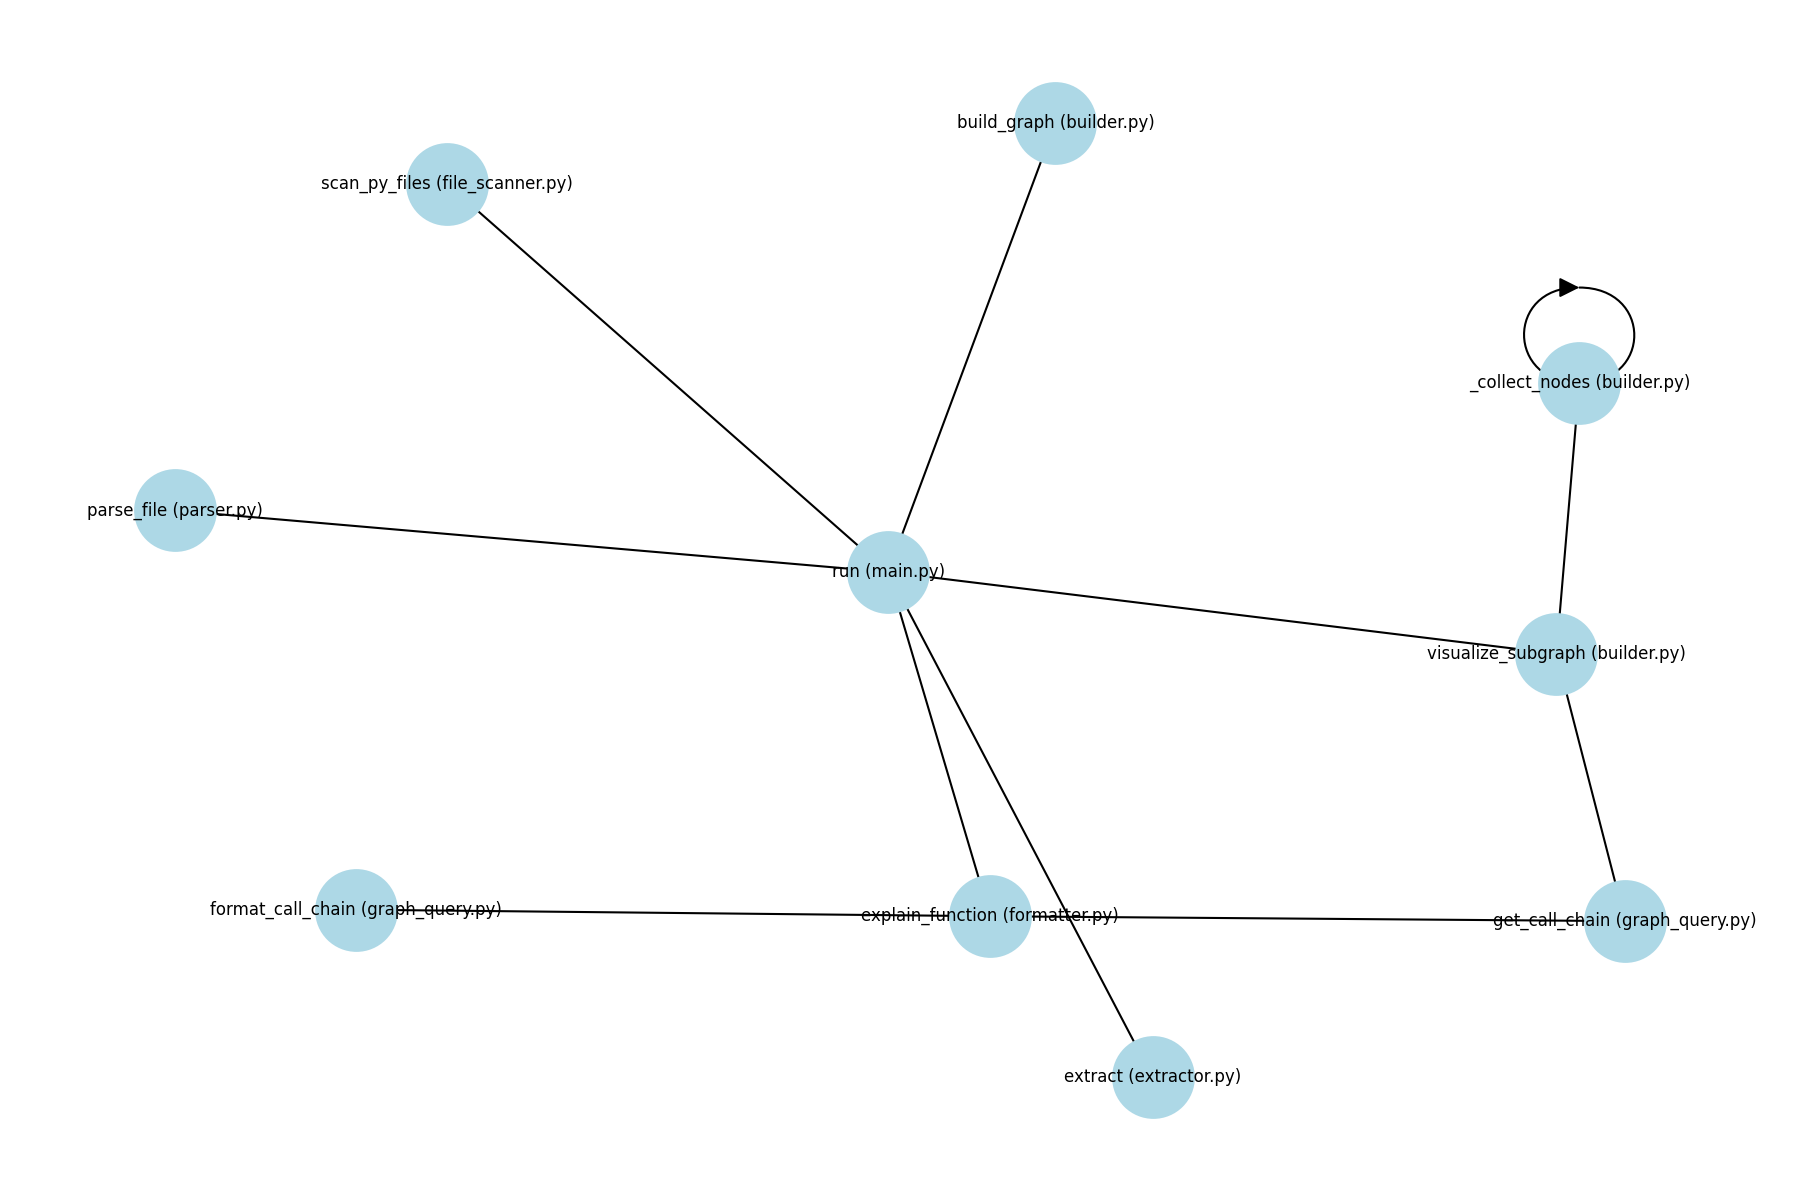
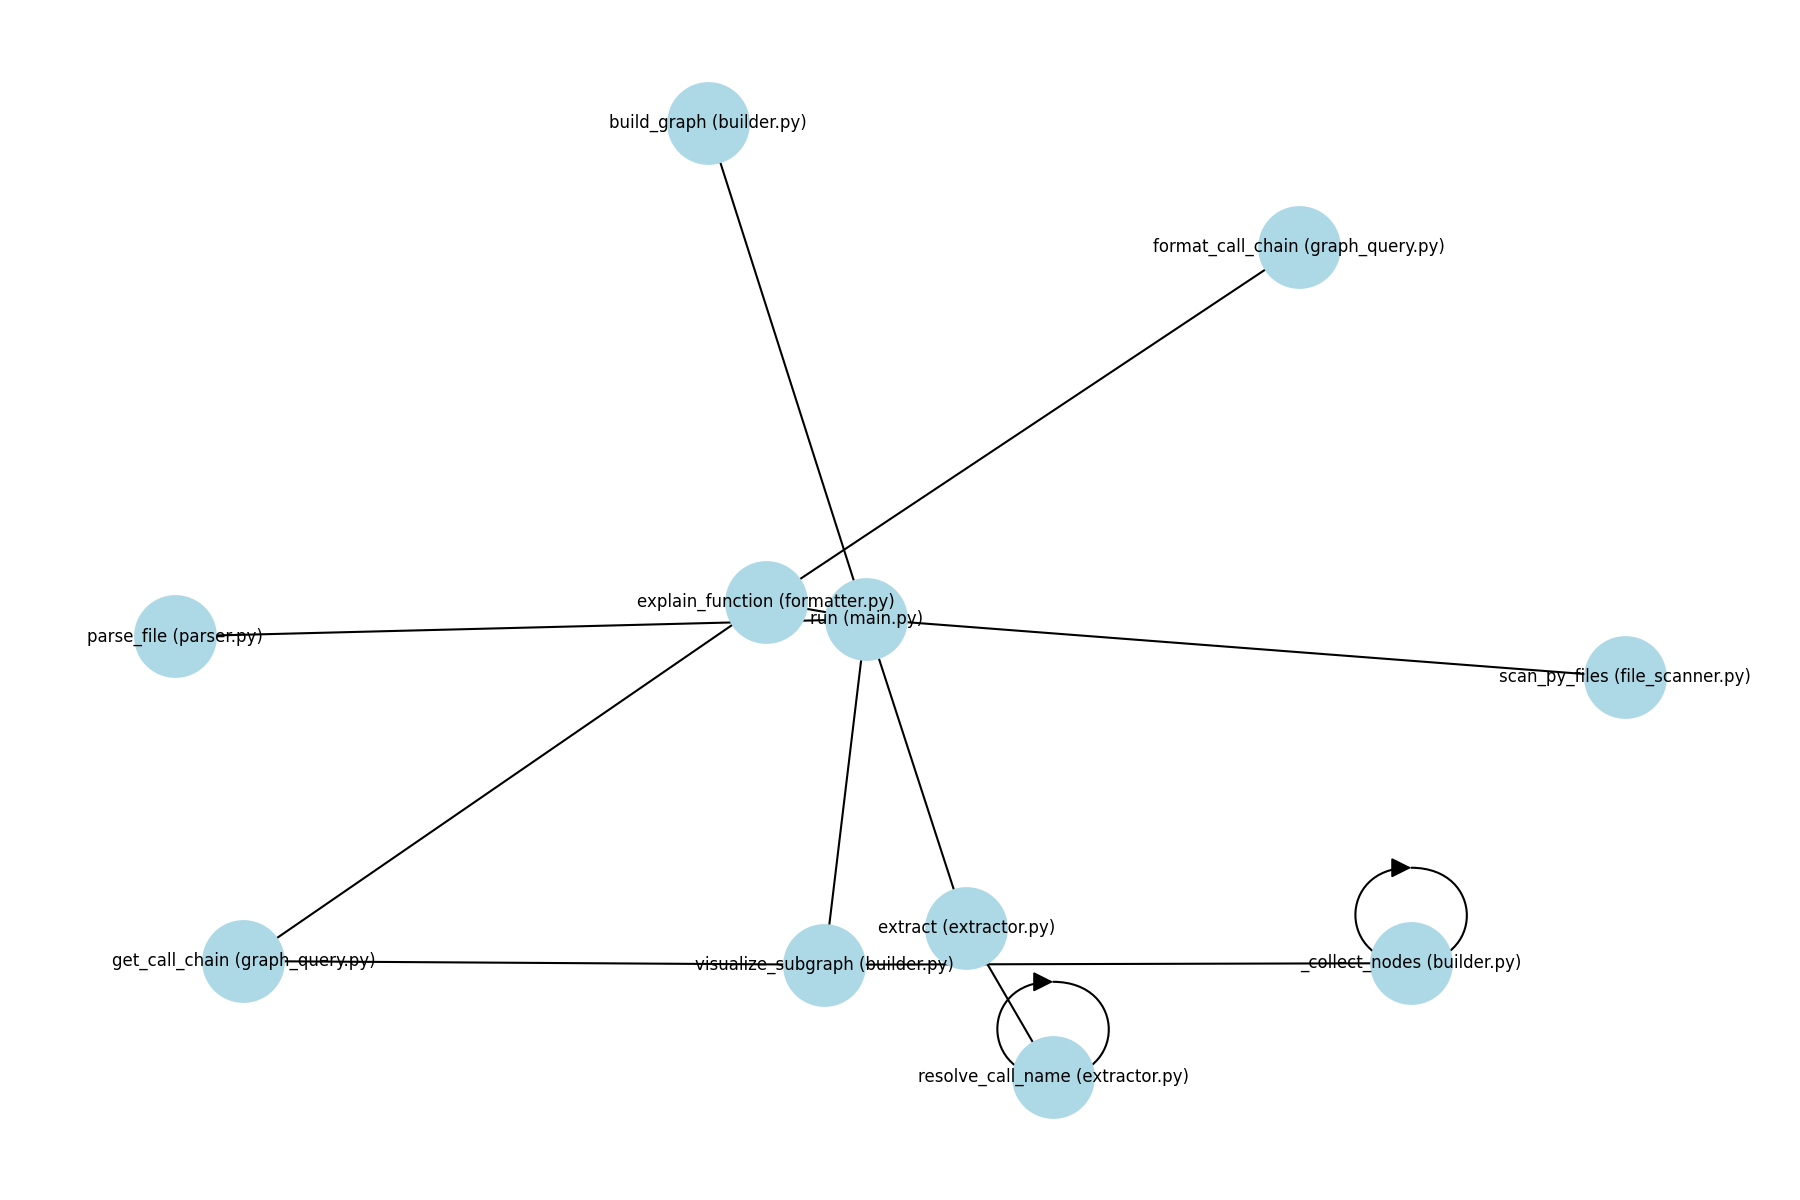
feat: support attribute/dotted call extraction

diff --git a/tests/unit/test_extractor.py b/tests/unit/test_extractor.py
@@ -1,11 +1,36 @@
 import ast
-from extraction.extractor import extract
+import pytest
+from extraction.extractor import extract, resolve_call_name
 from extraction.models import FileModule, Function
 
 
 def _parse(src: str) -> ast.AST:
     return ast.parse(src)
 
+
+# ---------------------------------------------------------------------------
+# resolve_call_name
+# ---------------------------------------------------------------------------
+
+def test_resolve_call_name_simple():
+    node = ast.parse("foo()").body[0].value
+    assert resolve_call_name(node.func) == "foo"
+
+
+def test_resolve_call_name_attribute():
+    node = ast.parse("os.path.join()").body[0].value
+    assert resolve_call_name(node.func) == "os.path.join"
+
+
+def test_resolve_call_name_unknown():
+    # dynamic call: func_list[0]() — cannot resolve
+    node = ast.parse("func_list[0]()").body[0].value
+    assert resolve_call_name(node.func) is None
+
+
+# ---------------------------------------------------------------------------
+# extract
+# ---------------------------------------------------------------------------
 
 def test_extract_returns_file_module():
     tree = _parse("def foo(): pass")
@@ -34,10 +59,17 @@ def test_extract_calls():
     assert result.functions[0].calls == ["bar", "baz"]
 
 
-def test_extract_ignores_attribute_calls():
+def test_extract_attribute_calls():
+    # attribute calls are now captured as dotted strings
     tree = _parse("def foo():\n    obj.method()")
     result = extract(tree, "mod.py")
-    assert result.functions[0].calls == []
+    assert result.functions[0].calls == ["obj.method"]
+
+
+def test_extract_mixed_calls():
+    src = "def foo():\n    bar()\n    os.path.join('a', 'b')"
+    result = extract(ast.parse(src), "mod.py")
+    assert result.functions[0].calls == ["bar", "os.path.join"]
 
 
 def test_extract_no_functions():

diff --git a/tests/unit/test_builder.py b/tests/unit/test_builder.py
@@ -34,6 +34,13 @@ def test_no_edge_for_unknown_call():
     assert len(g.edges) == 0
 
 
+def test_edge_created_for_dotted_call():
+    # "user.save" resolves via last segment "save" → a.py::save
+    mod = _mod("a.py", [("c", ["user.save"]), ("save", [])])
+    g = build_graph([mod])
+    assert g.has_edge("a.py::c", "a.py::save")
+
+
 def test_cross_module_edge():
     mod_a = _mod("a.py", [("foo", ["bar"])])
     mod_b = _mod("b.py", [("bar", [])])
@@ -140,3 +147,23 @@ def test_visualize_subgraph_with_cycle_does_not_raise(
     g = build_graph([_mod("a.py", [("alpha", ["beta"]), ("beta", ["alpha"])])])
     visualize_subgraph(g, "a.py::alpha", depth=2)
     mock_plt.savefig.assert_called_once()
+
+
+def test_visualize_subgraph_short_name_resolves():
+    """Short name like 'foo' should resolve to the full node ID."""
+    g = build_graph([_mod("a.py", [("foo", [])])])
+    # Should not raise — short name gets resolved internally
+    with patch("graph.builder.plt"), \
+         patch("graph.builder.nx.spring_layout", return_value={}), \
+         patch("graph.builder.nx.draw_networkx_nodes"), \
+         patch("graph.builder.nx.draw_networkx_edges"), \
+         patch("graph.builder.nx.draw_networkx_labels"):
+        visualize_subgraph(g, "foo", depth=1)
+
+
+def test_visualize_subgraph_unknown_node_returns_early():
+    """Unknown node should return early without drawing."""
+    g = build_graph([_mod("a.py", [("foo", [])])])
+    with patch("graph.builder.plt") as mock_plt:
+        visualize_subgraph(g, "nonexistent", depth=1)
+        mock_plt.savefig.assert_not_called()

diff --git a/extraction/extractor.py b/extraction/extractor.py
@@ -3,14 +3,27 @@ import ast
 from extraction.models import FileModule, Function
 
 
+def resolve_call_name(node: ast.AST) -> str | None:
+    # Simple call: foo()
+    if isinstance(node, ast.Name):
+        return node.id
+    # Attribute call: obj.method() or os.path.join()
+    if isinstance(node, ast.Attribute):
+        base = resolve_call_name(node.value)
+        return f"{base}.{node.attr}" if base else node.attr
+    # Dynamic call (e.g. func_list[0]()) — cannot resolve
+    return None
+
+
 def extract(tree: ast.AST, file_path: str) -> FileModule:
     functions = []
     for node in ast.iter_child_nodes(tree):
         if isinstance(node, ast.FunctionDef):
-            calls = [
-                n.func.id
-                for n in ast.walk(node)
-                if isinstance(n, ast.Call) and isinstance(n.func, ast.Name)
-            ]
+            calls = []
+            for n in ast.walk(node):
+                if isinstance(n, ast.Call):
+                    name = resolve_call_name(n.func)
+                    if name is not None:
+                        calls.append(name)
             functions.append(Function(name=node.name, file=file_path, calls=calls))
     return FileModule(name=file_path, functions=functions)

diff --git a/graph/builder.py b/graph/builder.py
@@ -19,7 +19,10 @@ def build_graph(modules: list[FileModule]) -> nx.DiGraph:
 
     for node_id, fn in all_functions.items():
         for call in fn.calls:
-            targets = [nid for nid in all_functions if nid.endswith(f"::{call}")]
+            # Use last segment so dotted calls like "os.path.join" or
+            # "user.save" can still match a known function named "join" / "save"
+            last = call.split(".")[-1]
+            targets = [nid for nid in all_functions if nid.endswith(f"::{last}")]
             for target in targets:
                 graph.add_edge(node_id, target)
 

diff --git a/data/sample_repo/test_attr.py b/data/sample_repo/test_attr.py
@@ -1,0 +1,15 @@
+import os
+
+def a():
+    b()
+    os.path.join("a", "b")
+
+def b():
+    pass
+
+class User:
+    def save(self):
+        pass
+
+def c(user):
+    user.save()

diff --git a/project_analysis.md b/project_analysis.md
@@ -1,0 +1,209 @@
+# PA — Code Intelligence System: Phân tích toàn bộ Project
+
+## Tổng quan
+
+**PA (Project Assistant)** là một hệ thống phân tích mã nguồn Python tĩnh (static analysis). Nó quét một codebase, trích xuất các hàm và mối quan hệ gọi nhau giữa chúng, sau đó xây dựng một "bản đồ" (đồ thị có hướng) để trực quan hóa cấu trúc code.
+
+Hiện tại đang ở **Phase 1 — Foundation**: chỉ dùng Python thuần + thư viện `ast` (có sẵn) và `networkx` (đồ thị), **không dùng AI/LLM** để phân tích.
+
+---
+
+## Kiến trúc tổng thể
+
+```mermaid
+flowchart LR
+    A["📂 Source Code"] --> B["ingestion"]
+    B --> C["parsing"]
+    C --> D["extraction"]
+    D --> E["graph"]
+    E --> F["query"]
+    F --> G["explain"]
+    E --> H["graph.png 🖼"]
+```
+
+Luồng dữ liệu đi **từ trái sang phải** qua 5 module chính, mỗi module chịu trách nhiệm một bước duy nhất.
+
+---
+
+## Chi tiết từng Module
+
+### 1. `ingestion/` — Quét file
+
+| File | Hàm | Nhiệm vụ |
+|------|------|-----------|
+| [file_scanner.py](file:///c:/Users/Admin/OneDrive/Tài%20liệu/PA/ingestion/file_scanner.py) | `scan_py_files(root)` | Tìm tất cả file `.py` trong thư mục (đệ quy), bỏ qua `venv`, `__pycache__`, `.git`, `tests` |
+
+**Input:** Đường dẫn thư mục hoặc file đơn lẻ
+**Output:** Danh sách đường dẫn các file `.py`
+
+```python
+# Ví dụ
+scan_py_files(".")
+# → ["app/main.py", "ingestion/file_scanner.py", "parsing/parser.py", ...]
+```
+
+---
+
+### 2. `parsing/` — Đọc cú pháp
+
+| File | Hàm | Nhiệm vụ |
+|------|------|-----------|
+| [parser.py](file:///c:/Users/Admin/OneDrive/Tài%20liệu/PA/parsing/parser.py) | `parse_file(path)` | Đọc file Python và chuyển thành cây cú pháp trừu tượng (AST) |
+
+**Input:** Đường dẫn 1 file `.py`
+**Output:** `ast.AST` — cây cú pháp mà Python tự phân tích
+
+> [!NOTE]
+> Module `ast` là thư viện có sẵn của Python. Nó đọc source code và biến thành một cấu trúc dữ liệu dạng cây, giúp chương trình "hiểu" code mà không cần chạy code đó.
+
+---
+
+### 3. `extraction/` — Trích xuất thông tin
+
+| File | Hàm/Class | Nhiệm vụ |
+|------|-----------|-----------|
+| [models.py](file:///c:/Users/Admin/OneDrive/Tài%20liệu/PA/extraction/models.py) | `Function`, `FileModule` | Định nghĩa cấu trúc dữ liệu |
+| [extractor.py](file:///c:/Users/Admin/OneDrive/Tài%20liệu/PA/extraction/extractor.py) | `extract(tree, file_path)` | Duyệt AST, tìm các hàm và hàm nào gọi hàm nào |
+
+**Input:** Cây AST + đường dẫn file
+**Output:** `FileModule` chứa danh sách các `Function`
+
+```python
+# Cấu trúc dữ liệu
+Function(name="run", file="app/main.py", calls=["scan_py_files", "build_graph", ...])
+FileModule(name="app/main.py", functions=[Function(...), ...])
+```
+
+> [!IMPORTANT]
+> Hiện tại extractor chỉ tìm được các lời gọi hàm dạng đơn giản `func_name()`. Nó **chưa xử lý** được:
+> - Gọi qua object: `obj.method()`
+> - Gọi qua module: `os.path.join()`
+> - Gọi qua biến: `callback()`
+
+---
+
+### 4. `graph/` — Xây dựng đồ thị
+
+| File | Hàm | Nhiệm vụ |
+|------|------|-----------|
+| [builder.py](file:///c:/Users/Admin/OneDrive/Tài%20liệu/PA/graph/builder.py) | `build_graph(modules)` | Tạo đồ thị có hướng từ danh sách `FileModule` |
+| | `visualize_subgraph(graph, func_name, depth)` | Vẽ sơ đồ hình ảnh (PNG) cho một hàm cụ thể |
+| | `_collect_nodes(chain)` | Thu thập tất cả node từ kết quả `get_call_chain` (hàm đệ quy) |
+
+**Cách hoạt động của `build_graph`:**
+
+```
+Bước 1: Tạo node cho mỗi hàm, format: "file_path::func_name"
+        Ví dụ: "app/main.py::run", "ingestion/file_scanner.py::scan_py_files"
+
+Bước 2: Tạo cạnh (edge) khi hàm A gọi hàm B
+        Ví dụ: "app/main.py::run" ──→ "ingestion/file_scanner.py::scan_py_files"
+```
+
+**Kết quả `graph.png` hiện tại:**
+
+![Đồ thị call graph hiện tại của project](C:\Users\Admin\.gemini\antigravity\brain\a6edd5e7-3f53-45b5-895c-854039bff380\graph.png)
+
+---
+
+### 5. `query/` — Truy vấn đồ thị
+
+| File | Hàm | Nhiệm vụ |
+|------|------|-----------|
+| [graph_query.py](file:///c:/Users/Admin/OneDrive/Tài%20liệu/PA/query/graph_query.py) | `get_function_calls(graph, func)` | Liệt kê các hàm mà `func` gọi trực tiếp |
+| | `get_callers(graph, func)` | Liệt kê các hàm gọi đến `func` ("ai gọi tôi?") |
+| | `get_call_chain(graph, func, depth)` | Xây dựng cây gọi đệ quy với phát hiện vòng lặp (cycle) |
+| | `format_call_chain(chain)` | Render cây gọi thành sơ đồ cây text đẹp |
+
+**Ví dụ output của `format_call_chain`:**
+```
+run (main.py)
+├── scan_py_files (file_scanner.py)
+├── build_graph (builder.py)
+├── visualize_subgraph (builder.py)
+│   ├── get_call_chain (graph_query.py)
+│   └── _collect_nodes (builder.py)
+│       └── _collect_nodes (builder.py)  [cycle]   ← đệ quy tự gọi chính nó
+├── extract (extractor.py)
+├── explain_function (formatter.py)
+│   ├── get_call_chain (graph_query.py)
+│   └── format_call_chain (graph_query.py)
+└── parse_file (parser.py)
+```
+
+> [!TIP]
+> **Cơ chế phát hiện Cycle:** Hệ thống dùng `frozenset` để theo dõi các node trên đường đi hiện tại. Nếu gặp lại node đã có trên đường đi → đánh dấu `[cycle]` và dừng nhánh đó. Node xuất hiện ở nhánh khác thì **không** bị coi là cycle.
+
+---
+
+### 6. `explain/` — Định dạng output
+
+| File | Hàm | Nhiệm vụ |
+|------|------|-----------|
+| [formatter.py](file:///c:/Users/Admin/OneDrive/Tài%20liệu/PA/explain/formatter.py) | `explain_function(graph, func)` | Kết hợp `get_call_chain` + `format_call_chain` để tạo output cuối cùng |
+
+---
+
+### 7. `app/` — Điểm khởi chạy
+
+| File | Hàm | Nhiệm vụ |
+|------|------|-----------|
+| [main.py](file:///c:/Users/Admin/OneDrive/Tài%20liệu/PA/app/main.py) | `run(repo_path)` | Điều phối toàn bộ pipeline: scan → parse → extract → graph → visualize → explain |
+
+**Pipeline trong hàm `run`:**
+```python
+files    = scan_py_files(repo_path)              # 1. Tìm file .py
+modules  = [extract(parse_file(f), f) for f in files]  # 2-3. Parse + Extract
+graph    = build_graph(modules)                  # 4. Xây đồ thị
+visualize_subgraph(graph, nodes[0], depth=2)     # 5. Vẽ ảnh PNG
+print(explain_function(graph, nodes[0]))         # 6. In sơ đồ cây
+```
+
+---
+
+## Các folder hỗ trợ (chưa có code logic)
+
+| Folder | Mục đích (theo CLAUDE.md) | Trạng thái |
+|--------|---------------------------|------------|
+| `agents/` | Định nghĩa các AI agent (orchestrator, researcher, coder, reviewer) | 📋 Chỉ có README template |
+| `prompts/` | System prompts và prompt templates | 📋 File rỗng |
+| `memory/` | Bộ nhớ lâu dài (user, feedback, project) | 📋 Chỉ có index template |
+| `rules/` | Quy tắc hành vi cho agents | ✅ Có `core.md` với quy tắc cơ bản |
+| `hooks/` | Automation hooks (event-driven) | 📋 Chưa có nội dung |
+| `evals/` | Test cases đánh giá agent | 📋 Chưa có nội dung |
+| `config/` | Cấu hình model và môi trường | ✅ Có `settings.json` (claude-sonnet-4-6) |
+| `skills/` | Reusable skill definitions | 📋 Có template |
+| `scripts/` | Utility scripts | 📋 Chưa có nội dung |
+
+---
+
+## Test coverage
+
+| File test | Module được test | Số test |
+|-----------|-----------------|---------|
+| [test_file_scanner.py](file:///c:/Users/Admin/OneDrive/Tài%20liệu/PA/tests/unit/test_file_scanner.py) | `ingestion` | 2 |
+| [test_parser.py](file:///c:/Users/Admin/OneDrive/Tài%20liệu/PA/tests/unit/test_parser.py) | `parsing` | ~2 |
+| [test_extractor.py](file:///c:/Users/Admin/OneDrive/Tài%20liệu/PA/tests/unit/test_extractor.py) | `extraction` | ~4 |
+| [test_builder.py](file:///c:/Users/Admin/OneDrive/Tài%20liệu/PA/tests/unit/test_builder.py) | `graph.builder` | 10 |
+| [test_graph_query.py](file:///c:/Users/Admin/OneDrive/Tài%20liệu/PA/tests/unit/test_graph_query.py) | `query.graph_query` | 12 |
+| [test_formatter.py](file:///c:/Users/Admin/OneDrive/Tài%20liệu/PA/tests/unit/test_formatter.py) | `explain.formatter` | ~3 |
+
+---
+
+## Dependencies
+
+```
+pytest==8.1.1        # Test framework
+pytest-cov==5.0.0    # Code coverage
+networkx==3.2.1      # Thư viện đồ thị
+matplotlib           # Vẽ graph.png (chưa có trong requirements.txt!)
+```
+
+> [!WARNING]
+> `matplotlib` đang được import trong `graph/builder.py` nhưng **chưa được khai báo** trong `requirements.txt`. Nếu ai đó clone project và chạy `pip install -r requirements.txt`, họ sẽ gặp lỗi `ModuleNotFoundError: No module named 'matplotlib'`.
+
+---
+
+## Tóm tắt bằng một câu
+
+**PA là một công cụ quét code Python, tự động xây dựng "bản đồ" các hàm gọi nhau, rồi hiển thị kết quả dưới dạng sơ đồ cây (text) và đồ thị hình ảnh (PNG) — tất cả bằng phân tích tĩnh, không cần chạy code mục tiêu.**
